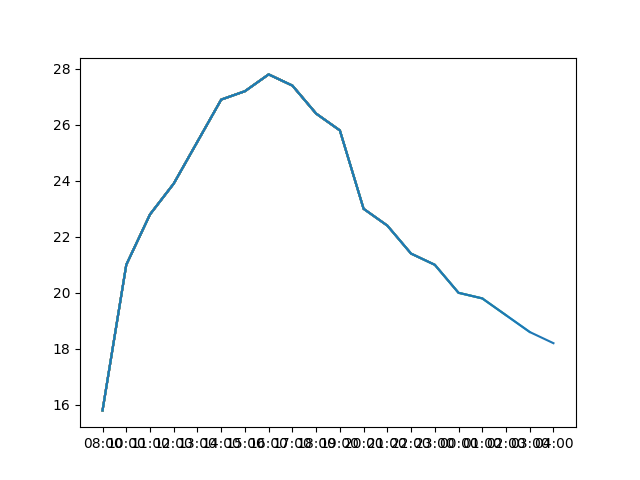
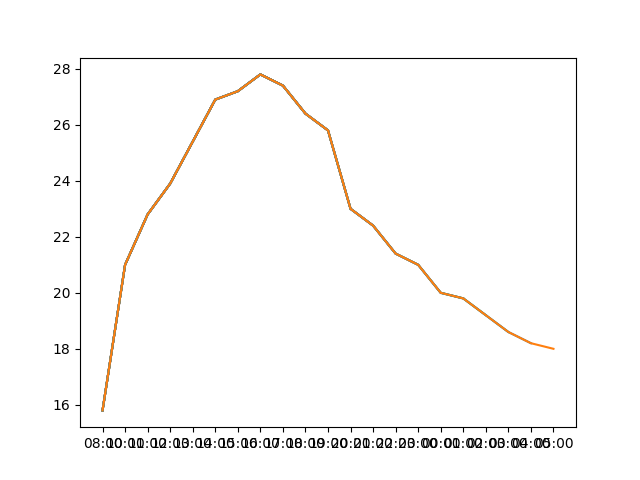
'updated'

diff --git a/index.html b/index.html
@@ -1,2 +1,2 @@
 <img src='graph.png'> 
-<table border="1"><tr><th>data</th><td><table border="1"><thead><tr><th>date</th><th>hour</th><th>weather</th><th>visibility</th><th>temp</th><th>unk</th><th>humidity</th><th>wind</th><th>pressure</th></tr></thead><tbody><tr><td>03-Abril-2021</td><td>08:00</td><td>Algo nublado con banco delgado de niebla</td><td>8 km</td><td>15.8</td><td>No se calcula</td><td>92.0</td><td>Sur  3</td><td>1014.5</td></tr><tr><td>03-Abril-2021</td><td>10:00</td><td>Despejado</td><td>15 km</td><td>21.0</td><td>No se calcula</td><td>71.0</td><td>Noreste  11</td><td>1014.8</td></tr><tr><td>03-Abril-2021</td><td>11:00</td><td>Despejado</td><td>15 km</td><td>22.8</td><td>No se calcula</td><td>66.0</td><td>Este  5</td><td>1014.6</td></tr><tr><td>03-Abril-2021</td><td>12:00</td><td>Algo nublado</td><td>15 km</td><td>23.9</td><td>No se calcula</td><td>61.0</td><td>Noreste  7</td><td>1014.2</td></tr><tr><td>03-Abril-2021</td><td>13:00</td><td>Algo nublado</td><td>15 km</td><td>25.4</td><td>No se calcula</td><td>55.0</td><td>Este  5</td><td>1013.6</td></tr><tr><td>03-Abril-2021</td><td>14:00</td><td>Algo nublado</td><td>15 km</td><td>26.9</td><td>27.3</td><td>49.0</td><td>Noreste  5</td><td>1012.8</td></tr><tr><td>03-Abril-2021</td><td>15:00</td><td>Algo nublado</td><td>15 km</td><td>27.2</td><td>26.4</td><td>42.0</td><td>Noreste  13</td><td>1012.0</td></tr><tr><td>03-Abril-2021</td><td>16:00</td><td>Algo nublado</td><td>15 km</td><td>27.8</td><td>No se calcula</td><td>36.0</td><td>Sudeste  9</td><td>1011.4</td></tr><tr><td>03-Abril-2021</td><td>17:00</td><td>Algo nublado</td><td>15 km</td><td>27.4</td><td>No se calcula</td><td>38.0</td><td>Este  7</td><td>1011.3</td></tr><tr><td>03-Abril-2021</td><td>18:00</td><td>Despejado</td><td>15 km</td><td>26.4</td><td>No se calcula</td><td>39.0</td><td>Sur  9</td><td>1011.3</td></tr><tr><td>03-Abril-2021</td><td>19:00</td><td>Despejado</td><td>15 km</td><td>25.8</td><td>No se calcula</td><td>43.0</td><td>Calma</td><td>1011.4</td></tr><tr><td>03-Abril-2021</td><td>20:00</td><td>Despejado</td><td>15 km</td><td>23.0</td><td>No se calcula</td><td>58.0</td><td>Sur  5</td><td>1011.8</td></tr><tr><td>03-Abril-2021</td><td>21:00</td><td>Algo nublado</td><td>15 km</td><td>22.4</td><td>No se calcula</td><td>62.0</td><td>Sur  7</td><td>1012.2</td></tr><tr><td>03-Abril-2021</td><td>22:00</td><td>Algo nublado</td><td>15 km</td><td>21.4</td><td>No se calcula</td><td>68.0</td><td>Calma</td><td>1012.8</td></tr><tr><td>03-Abril-2021</td><td>23:00</td><td>Despejado</td><td>15 km</td><td>21.0</td><td>No se calcula</td><td>73.0</td><td>Calma</td><td>1012.8</td></tr><tr><td>04-Abril-2021</td><td>00:00</td><td>Despejado</td><td>15 km</td><td>20.0</td><td>No se calcula</td><td>77.0</td><td>Sudeste  5</td><td>1012.6</td></tr><tr><td>04-Abril-2021</td><td>01:00</td><td>Algo nublado</td><td>15 km</td><td>19.8</td><td>No se calcula</td><td>76.0</td><td>Calma</td><td>1012.4</td></tr><tr><td>04-Abril-2021</td><td>02:00</td><td>Despejado</td><td>15 km</td><td>19.2</td><td>No se calcula</td><td>75.0</td><td>Calma</td><td>1012.1</td></tr><tr><td>04-Abril-2021</td><td>03:00</td><td>Algo nublado</td><td>15 km</td><td>18.6</td><td>No se calcula</td><td>82.0</td><td>Noreste  9</td><td>1012.0</td></tr><tr><td>04-Abril-2021</td><td>04:00</td><td>Algo nublado</td><td>15 km</td><td>18.2</td><td>No se calcula</td><td>83.0</td><td>Calma</td><td>1012.0</td></tr></tbody></table></td></tr></table>
+<table border="1"><tr><th>data</th><td><table border="1"><thead><tr><th>date</th><th>hour</th><th>weather</th><th>visibility</th><th>temp</th><th>unk</th><th>humidity</th><th>wind</th><th>pressure</th></tr></thead><tbody><tr><td>03-Abril-2021</td><td>08:00</td><td>Algo nublado con banco delgado de niebla</td><td>8 km</td><td>15.8</td><td>No se calcula</td><td>92.0</td><td>Sur  3</td><td>1014.5</td></tr><tr><td>03-Abril-2021</td><td>10:00</td><td>Despejado</td><td>15 km</td><td>21.0</td><td>No se calcula</td><td>71.0</td><td>Noreste  11</td><td>1014.8</td></tr><tr><td>03-Abril-2021</td><td>11:00</td><td>Despejado</td><td>15 km</td><td>22.8</td><td>No se calcula</td><td>66.0</td><td>Este  5</td><td>1014.6</td></tr><tr><td>03-Abril-2021</td><td>12:00</td><td>Algo nublado</td><td>15 km</td><td>23.9</td><td>No se calcula</td><td>61.0</td><td>Noreste  7</td><td>1014.2</td></tr><tr><td>03-Abril-2021</td><td>13:00</td><td>Algo nublado</td><td>15 km</td><td>25.4</td><td>No se calcula</td><td>55.0</td><td>Este  5</td><td>1013.6</td></tr><tr><td>03-Abril-2021</td><td>14:00</td><td>Algo nublado</td><td>15 km</td><td>26.9</td><td>27.3</td><td>49.0</td><td>Noreste  5</td><td>1012.8</td></tr><tr><td>03-Abril-2021</td><td>15:00</td><td>Algo nublado</td><td>15 km</td><td>27.2</td><td>26.4</td><td>42.0</td><td>Noreste  13</td><td>1012.0</td></tr><tr><td>03-Abril-2021</td><td>16:00</td><td>Algo nublado</td><td>15 km</td><td>27.8</td><td>No se calcula</td><td>36.0</td><td>Sudeste  9</td><td>1011.4</td></tr><tr><td>03-Abril-2021</td><td>17:00</td><td>Algo nublado</td><td>15 km</td><td>27.4</td><td>No se calcula</td><td>38.0</td><td>Este  7</td><td>1011.3</td></tr><tr><td>03-Abril-2021</td><td>18:00</td><td>Despejado</td><td>15 km</td><td>26.4</td><td>No se calcula</td><td>39.0</td><td>Sur  9</td><td>1011.3</td></tr><tr><td>03-Abril-2021</td><td>19:00</td><td>Despejado</td><td>15 km</td><td>25.8</td><td>No se calcula</td><td>43.0</td><td>Calma</td><td>1011.4</td></tr><tr><td>03-Abril-2021</td><td>20:00</td><td>Despejado</td><td>15 km</td><td>23.0</td><td>No se calcula</td><td>58.0</td><td>Sur  5</td><td>1011.8</td></tr><tr><td>03-Abril-2021</td><td>21:00</td><td>Algo nublado</td><td>15 km</td><td>22.4</td><td>No se calcula</td><td>62.0</td><td>Sur  7</td><td>1012.2</td></tr><tr><td>03-Abril-2021</td><td>22:00</td><td>Algo nublado</td><td>15 km</td><td>21.4</td><td>No se calcula</td><td>68.0</td><td>Calma</td><td>1012.8</td></tr><tr><td>03-Abril-2021</td><td>23:00</td><td>Despejado</td><td>15 km</td><td>21.0</td><td>No se calcula</td><td>73.0</td><td>Calma</td><td>1012.8</td></tr><tr><td>04-Abril-2021</td><td>00:00</td><td>Despejado</td><td>15 km</td><td>20.0</td><td>No se calcula</td><td>77.0</td><td>Sudeste  5</td><td>1012.6</td></tr><tr><td>04-Abril-2021</td><td>01:00</td><td>Algo nublado</td><td>15 km</td><td>19.8</td><td>No se calcula</td><td>76.0</td><td>Calma</td><td>1012.4</td></tr><tr><td>04-Abril-2021</td><td>02:00</td><td>Despejado</td><td>15 km</td><td>19.2</td><td>No se calcula</td><td>75.0</td><td>Calma</td><td>1012.1</td></tr><tr><td>04-Abril-2021</td><td>03:00</td><td>Algo nublado</td><td>15 km</td><td>18.6</td><td>No se calcula</td><td>82.0</td><td>Noreste  9</td><td>1012.0</td></tr><tr><td>04-Abril-2021</td><td>04:00</td><td>Algo nublado</td><td>15 km</td><td>18.2</td><td>No se calcula</td><td>83.0</td><td>Calma</td><td>1012.0</td></tr><tr><td>04-Abril-2021</td><td>05:00</td><td>Algo nublado</td><td>15 km</td><td>18.0</td><td>No se calcula</td><td>89.0</td><td>Calma</td><td>1011.8</td></tr></tbody></table></td></tr></table>
